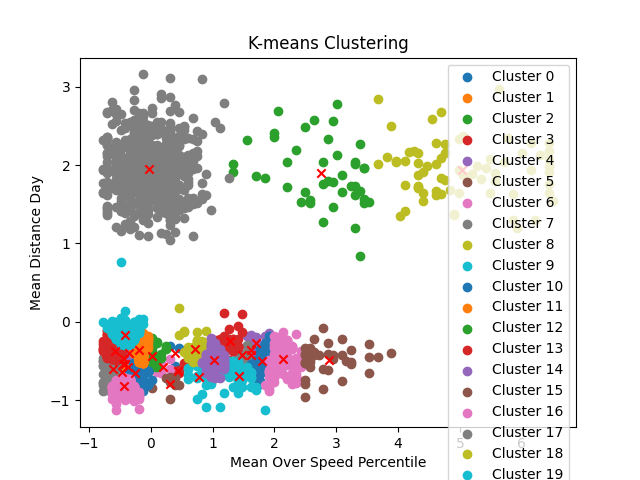
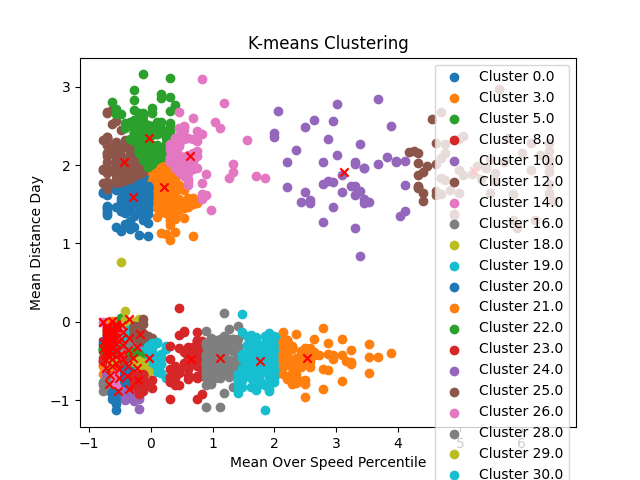
[Feature] Added new function a method from chatgpt

diff --git a/kmeans_native.py b/kmeans_native.py
@@ -37,34 +37,37 @@ class NativeKMeans:
         kmeans.train_kmeans_cluster()
     """
 
-    def __init__(self):
+    def __init__(self, max_iter=100, tol=1e-4):
         """
         Initializes NativeKMeans with pre-processed data and empty centroids DataFrame.
         """
-        self.data = self.pre_process_data()
+        self.max_iter = max_iter
+        self.tolerance = tol
+        self.data = pd.DataFrame()
         self.centroids = pd.DataFrame()
+        self.pre_process_data()
+        self.n_clusters = self.find_optimal_centroids()
+        self.initialise_centroids()
 
-    def pre_process_data(self) -> pd.DataFrame:
+    def pre_process_data(self):
         """
         Reads and pre-processes data from 'driver-data.csv'.
 
         Returns:
             pd.DataFrame: Pre-processed DataFrame with scaled numeric features and dropped IDs.
         """
-        data = pd.read_csv('data/driver-data.csv')
-        data.info()
-        data.describe()
-        data.dropna(inplace=True)
-        data.isnull().sum()
+        self.data = pd.read_csv('data/driver-data.csv')
+        self.data.info()
+        self.data.describe()
+        self.data.dropna(inplace=True)
+        self.data.isnull().sum()
 
         scaler = StandardScaler()
-        data[['mean_dist_day', 'mean_over_speed_perc']] = scaler.fit_transform(
-            data[['mean_dist_day', 'mean_over_speed_perc']])
-        data = data.drop(['id'], axis=1)
+        self.data[['mean_dist_day', 'mean_over_speed_perc']] = scaler.fit_transform(
+            self.data[['mean_dist_day', 'mean_over_speed_perc']])
+        self.data = self.data.drop(['id'], axis=1)
 
-        return data
-
-    def find_optimal_centroids(self) -> int:
+    def find_optimal_centroids(self):
         """
         Finds the optimal number of centroids (k) using the elbow method with KneeLocator.
 
@@ -79,18 +82,24 @@ class NativeKMeans:
             kmeans.fit(self.data[['mean_dist_day', 'mean_over_speed_perc']])
             inertia.append(kmeans.inertia_)
 
+        plt.plot(range(1, max_clusters + 1), inertia)
+        plt.show()
+
         kneedle = KneeLocator(range(1, max_clusters + 1), inertia, curve='convex', direction='decreasing')
         optimal_k = kneedle.elbow
-        return optimal_k
+        if optimal_k is None:
+            self.n_clusters = 4
+        else:
+            self.n_clusters = optimal_k
 
-    def initialise_centroids(self, k: int):
+
+
+    def initialise_centroids(self):
         """
         Initializes centroids by randomly selecting k samples from pre-processed data.
 
-        Args:
-            k (int): Number of centroids to initialize.
         """
-        self.centroids = self.data[['mean_dist_day', 'mean_over_speed_perc']].sample(n=k)
+        self.centroids = self.data[['mean_dist_day', 'mean_over_speed_perc']].sample(n=self.n_clusters)
         print(self.centroids)
 
     def squared_euclidian_distance(self, x1, x2, y1, y2) -> float:
@@ -108,7 +117,7 @@ class NativeKMeans:
         """
         return np.sqrt((((x2 - x1) ** 2) + ((y2 - y1) ** 2)))
 
-    def train_kmeans_cluster(self, tolerance=1e-4, training_iterations=10):
+    def train_kmeans_cluster(self):
         """
         Trains the K-means clustering algorithm with a specified tolerance and maximum iterations.
 
@@ -121,36 +130,36 @@ class NativeKMeans:
         iteration = 1
         self.data['labels'] = np.zeros(self.data.shape[0])
 
-        while iteration <= training_iterations:
+        while iteration <= self.max_iter:
             print('Iteration {}'.format(iteration))
             # Calculate distances to all centroids
-            distances = np.linalg.norm(
-                self.data[['mean_dist_day', 'mean_over_speed_perc']].values[:, np.newaxis] - self.centroids.values,
-                axis=2)
-
-            # Assign labels based on the nearest centroid
-            self.data['labels'] = np.argmin(distances, axis=1)
-
-            # for index, data_point in self.data.iterrows():
-            #     y2 = data_point['mean_dist_day']
-            #     x2 = data_point['mean_over_speed_perc']
-            #     temp_min = []
+            # distances = np.linalg.norm(
+            #     self.data[['mean_dist_day', 'mean_over_speed_perc']].values[:, np.newaxis] - self.centroids.values,
+            #     axis=2)
             #
-            #     for centroid in self.centroids.values:
-            #         y1 = centroid[0]
-            #         x1 = centroid[1]
-            #         temp_min.append(self.squared_euclidian_distance(x1, x2, y1, y2))
-            #
-            #     self.data.at[index, 'labels'] = temp_min.index(min(temp_min))
+            # # Assign labels based on the nearest centroid
+            # self.data['labels'] = np.argmin(distances, axis=1)
 
-            if self.update_centroids(tolerance):
+            for index, data_point in self.data.iterrows():
+                y2 = data_point['mean_dist_day']
+                x2 = data_point['mean_over_speed_perc']
+                temp_min = []
+
+                for centroid in self.centroids.values:
+                    y1 = centroid[0]
+                    x1 = centroid[1]
+                    temp_min.append(self.squared_euclidian_distance(x1, x2, y1, y2))
+
+                self.data.at[index, 'labels'] = temp_min.index(min(temp_min))
+
+            if self.update_centroids():
                 break
 
             iteration += 1
 
         self.plot_trained_data()
 
-    def update_centroids(self, tolerance) -> bool:
+    def update_centroids(self) -> bool:
         """
         Updates centroids based on assigned cluster data and checks for convergence.
 
@@ -169,7 +178,7 @@ class NativeKMeans:
 
         centroid_shift = np.linalg.norm(new_centroids - self.centroids)
 
-        if centroid_shift < tolerance:
+        if centroid_shift < self.tolerance:
             return True
 
         self.centroids = new_centroids
@@ -189,12 +198,10 @@ class NativeKMeans:
         plt.xlabel('Mean Over Speed Percentile')
         plt.ylabel('Mean Distance Day')
         plt.title('K-means Clustering')
-        plt.savefig('k_means_native_with_sklearn_trained.png')
-        plt.show()
+        plt.savefig('images/k_means_native_with_sklearn_trained.png')
+        # plt.show()
 
 
 if __name__ == '__main__':
     kmeans = NativeKMeans()
-    optimal_k = kmeans.find_optimal_centroids()
-    kmeans.initialise_centroids(optimal_k)
     kmeans.train_kmeans_cluster()

diff --git a/kmeans_chatgpt.py b/kmeans_chatgpt.py
@@ -1,0 +1,132 @@
+import numpy as np
+import matplotlib.pyplot as plt
+import random
+
+
+class KMeans:
+    def __init__(self, n_clusters, max_iter=100, tol=1e-4):
+        """
+        Initialize the KMeans class.
+
+        Parameters:
+        n_clusters (int): Number of clusters.
+        max_iter (int): Maximum number of iterations.
+        tol (float): Tolerance to declare convergence.
+        """
+        self.n_clusters = n_clusters
+        self.max_iter = max_iter
+        self.tol = tol
+        self.centroids = None
+
+    def fit(self, data):
+        """
+        Compute k-means clustering.
+
+        Parameters:
+        data (ndarray): The data to cluster.
+        """
+        # Step 1: Initialize centroids
+        self.centroids = self._initialize_centroids(data)
+
+        for i in range(self.max_iter):
+            # Step 2: Assign clusters
+            labels = self._assign_clusters(data)
+
+            # Step 3: Update centroids
+            new_centroids = self._update_centroids(data, labels)
+
+            # Check for convergence
+            if np.all(np.linalg.norm(new_centroids - self.centroids, axis=1) < self.tol):
+                break
+
+            self.centroids = new_centroids
+
+    def _initialize_centroids(self, data):
+        """
+        Initialize centroids by randomly selecting points from the data.
+
+        Parameters:
+        data (ndarray): The data to cluster.
+
+        Returns:
+        ndarray: Initial centroids.
+        """
+        random_indices = random.sample(range(data.shape[0]), self.n_clusters)
+        return data[random_indices]
+
+    def _assign_clusters(self, data):
+        """
+        Assign each data point to the nearest centroid.
+
+        Parameters:
+        data (ndarray): The data to cluster.
+
+        Returns:
+        ndarray: Array of cluster labels for each data point.
+        """
+        distances = np.zeros((data.shape[0], self.n_clusters))
+        for k in range(self.n_clusters):
+            distances[:, k] = np.linalg.norm(data - self.centroids[k], axis=1)
+        return np.argmin(distances, axis=1)
+
+    def _update_centroids(self, data, labels):
+        """
+        Update centroids by computing the mean of all points assigned to each centroid.
+
+        Parameters:
+        data (ndarray): The data to cluster.
+        labels (ndarray): Cluster labels for each data point.
+
+        Returns:
+        ndarray: Updated centroids.
+        """
+        new_centroids = np.zeros((self.n_clusters, data.shape[1]))
+        for k in range(self.n_clusters):
+            cluster_points = data[labels == k]
+            if len(cluster_points) > 0:
+                new_centroids[k] = cluster_points.mean(axis=0)
+        return new_centroids
+
+    def predict(self, data):
+        """
+        Predict the closest cluster each sample in data belongs to.
+
+        Parameters:
+        data (ndarray): New data to predict.
+
+        Returns:
+        ndarray: Array of cluster labels for each data point.
+        """
+        return self._assign_clusters(data)
+
+    def plot_clusters(self, data, labels):
+        """
+        Plot the clustered data along with the centroids.
+
+        Parameters:
+        data (ndarray): The data to cluster.
+        labels (ndarray): Cluster labels for each data point.
+        """
+        for k in range(self.n_clusters):
+            cluster_points = data[labels == k]
+            plt.scatter(cluster_points[:, 0], cluster_points[:, 1], label=f'Cluster {k}')
+        plt.scatter(self.centroids[:, 0], self.centroids[:, 1], s=300, c='red', label='Centroids')
+        plt.legend()
+        # plt.show()
+
+
+# Example usage:
+
+# Generating some sample data
+np.random.seed(42)
+data = np.random.rand(300, 2)
+
+# Initializing and fitting the KMeans model
+kmeans = KMeans(n_clusters=3)
+kmeans.fit(data)
+
+# Predicting the cluster labels
+labels = kmeans.predict(data)
+
+# Plotting the clustered data
+kmeans.plot_clusters(data, labels)

diff --git a/README.md b/README.md
@@ -1,6 +1,6 @@
 # Kmeans algorithm
 This is a repo for learning about the kmeans clustering algorithm.
-In depth information about the algorithm can be found on [this personal blog post](https://medium.com/@dowra/a-clustering-algorithm-k-means-8b19e701a051)
+In depth information about the algorithm can be found on [this personal blog post.](https://medium.com/@dowra/a-clustering-algorithm-k-means-8b19e701a051)
 The blog post can be used in conjunction with this repo to aid your curiosity and deepen our understanding.
 
 # Package walkthrough:
@@ -12,7 +12,8 @@ The blog post can be used in conjunction with this repo to aid your curiosity an
 - contains an implementation of the algorithm using scikit learn library
 ### kmean_native.py
 - contains a native implementation of the algorithm, this is my personal attempt at using the pseudocode instruction in the blog to challenge myself to code this up. 
-
+### kmeans_chatgpt.py
+- contains an implementation from chatgpt
 
 # Instructions on running the program:
 1. Install all the libraries (`pip install x`) or use activate the virtual environment `source kmeans/bin/activate`
